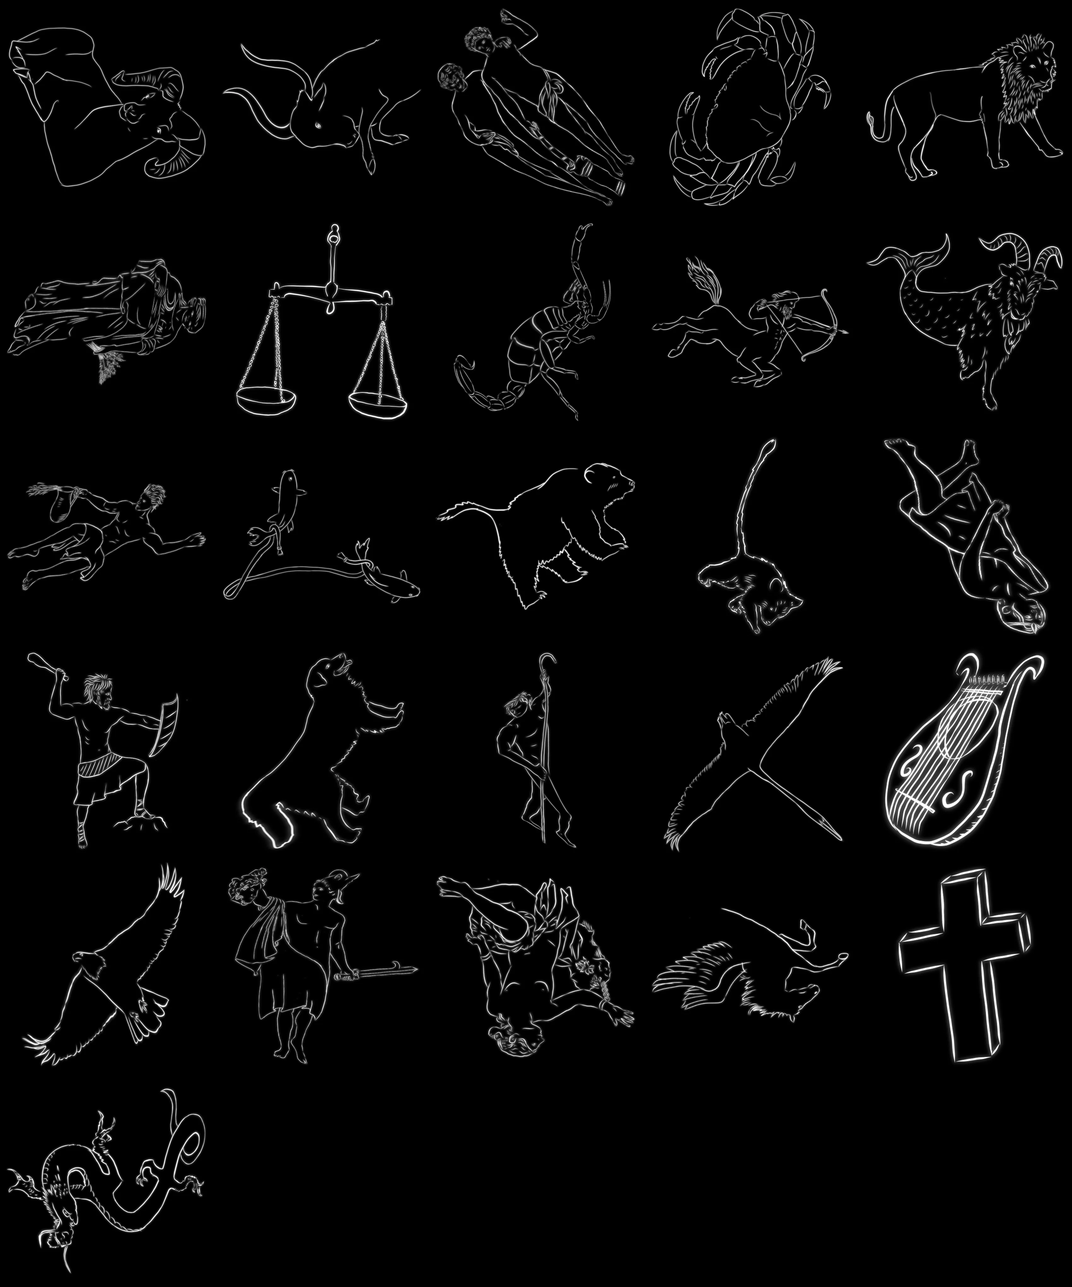
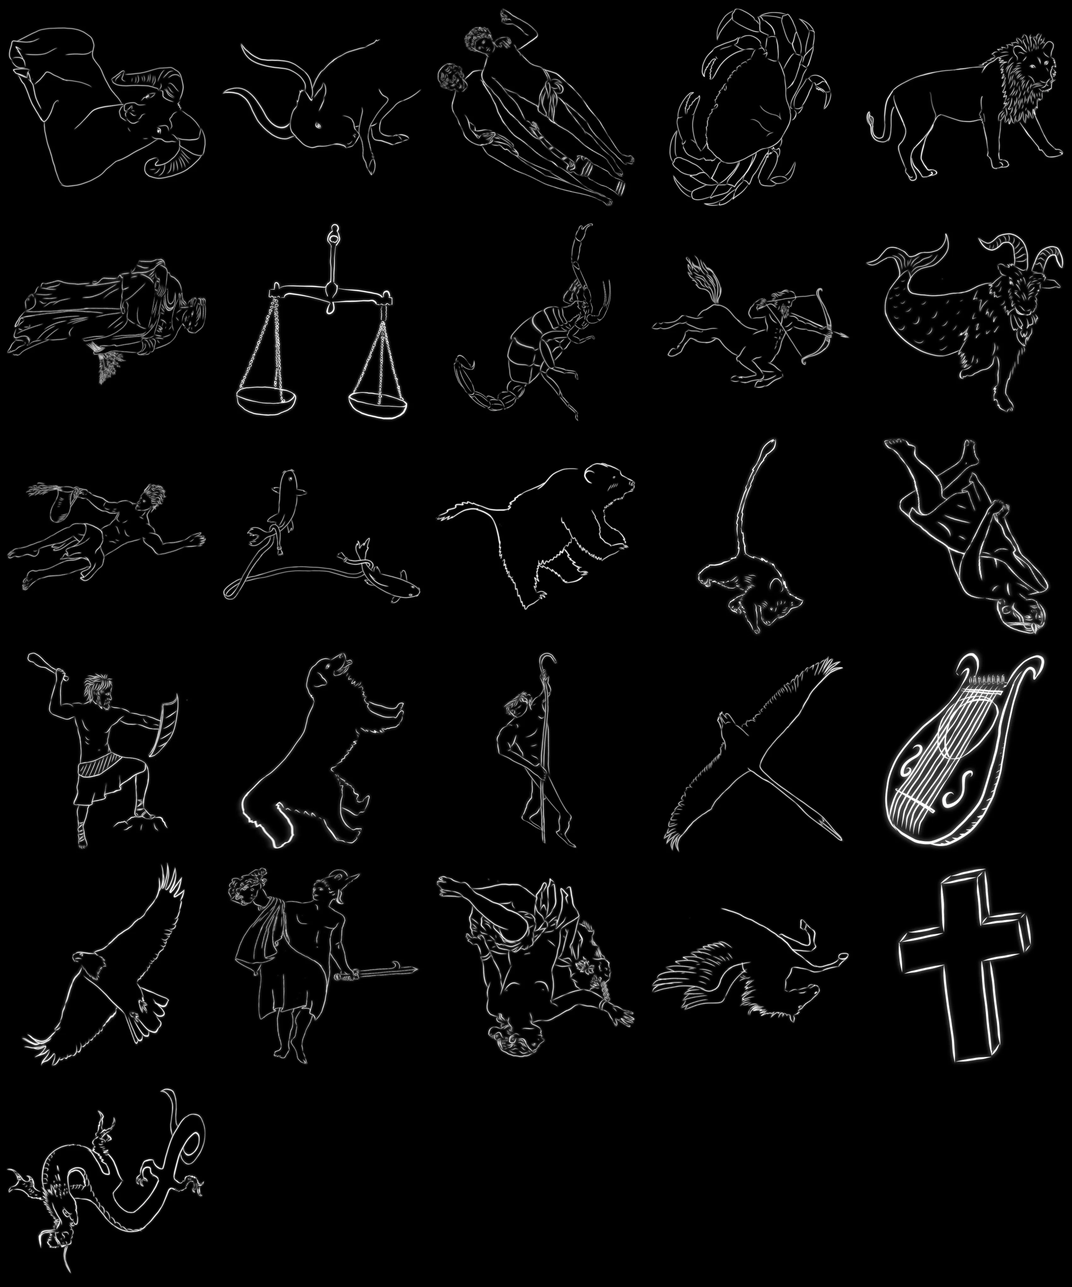
fix(figures): Sagittarius's bow on its stars, lines and names for the six floating zodiac drawings, Capricornus matched (#172)
* fix(figures): bend Sagittarius's bow through its bow stars

Kelly, from the live sky view: "It just doesn't look like the bow lines
up properly." It didn't. Sagittarius was one of the figures counted as
already sitting on its stars, and it was never matched. Placed as
OpenSpace placed it, the drawn bow bulged outside the Teapot's spout
edge:

- Kaus Borealis (lambda) sat beside the upper limb
- Kaus Media (delta) sat on the arrow, short of the grip
- Kaus Australis (epsilon) sat outside the lower limb
- Alnasl (gamma) sat below the arrowhead

Each was half a degree to a degree off. The nearest-ink number had said
0.2-0.5 degrees, because the nearest ink to those stars was the arrow
and the string, not the bow. For a star that belongs ON a line, measure
to that line.

Four landmarks now put the upper limb on lambda, the centre of the grip
on delta, the lower limb on epsilon and the arrowhead on gamma. The
names say where each belongs: the bow's north end, middle and south end,
and "the arrow's point". Nine pins hold the archer and the horse where
they already sat. The build matched it at x1.64 stretch, against x3.5
allowed, and re-checked placement for all 26 figures. Sagittarius is the
only figure whose data changed; every other tile differs only by WebP
re-encoding noise.

In the real sky lambda, delta and epsilon run in an almost straight
line, so the drawn bow is a little shallower than Hedberg drew it.
[…]

Changed region(s): [[0.8106, 0.1868, 0.9976, 0.3113], [0.6547, 0.2179, 0.7794, 0.3113], [0.6235, 0.249, 0.6547, 0.2801]]

diff --git a/site/src/data/figures.js b/site/src/data/figures.js
@@ -18,4 +18,4 @@
 // Artwork: James Hedberg (CUNY-CCNY), CC BY 4.0.
 export const FIGURE_TILE = 680;
 export const FIGURE_COLS = 5;
-export const FIGURES = [{"a":"Ari","n":"Aries","i":0,"c":[[0.609548,0.609323,0.64085],[0.840153,0.331852,0.5369],[0.855481,0.47457,0.189954],[0.624876,0.752041,0.293905]]},{"a":"Tau","n":"Taurus","i":1,"c":[[0.049771,0.861553,0.591597],[0.601795,0.739924,0.611093],[0.655278,0.895938,0.070073],[0.103254,1.017567,0.050576]]},{"a":"Gem","n":"Gemini","i":2,"c":[[-0.398344,0.698325,0.577864],[-0.085153,0.897797,0.630214],[-0.11377,1.034102,0.282047],[-0.426961,0.83463,0.229697]]},{"a":"Cnc","n":"Cancer","i":3,"c":[[-0.726669,0.530032,0.621825],[-0.278863,0.856476,0.546848],[-0.436893,0.952024,0.019009],[-0.884698,0.62558,0.093986]]},{"a":"Leo","n":"Leo","i":4,"c":[[-0.951124,0.021242,0.646291],[-0.685115,0.554686,0.534228],[-0.909218,0.548046,-0.029346],[-1.175228,0.014602,0.082717]]},{"a":"Vir","n":"Virgo","i":5,"c":[[-0.776967,-0.766113,0.317464],[-0.928265,-0.003613,0.355354],[-1.013842,0.017831,-0.417918],[-0.862543,-0.744669,-0.455808]]},{"a":"Lib","n":"Libra","i":6,"c":[[-0.491927,-0.852549,-0.145956],[-0.776682,-0.632606,-0.133503],[-0.743482,-0.569641,-0.486418],[-0.458728,-0.789584,-0.498871]]},{"a":"Sco","n":"Scorpius","i":7,"c":[[0.039705,-1.061065,-0.164161],[-0.683943,-0.948478,-0.138552],[-0.648906,-0.579492,-0.770707],[0.074742,-0.692079,-0.796316]]},{"a":"Sgr","n":"Sagittarius","i":8,"c":[[0.646114,-0.969303,-0.357703],[0.07328,-0.996382,-0.189059],[-0.086223,-0.700454,-0.683325],[0.486612,-0.673374,-0.851969]]},{"a":"Cap","n":"Capricornus","i":9,"c":[[0.887475,-0.556537,-0.062794],[0.470739,-0.783712,-0.140459],[0.533606,-0.736815,-0.614967],[0.950342,-0.509639,-0.537302]]},{"a":"Aqr","n":"Aquarius","i":10,"c":[[1.086561,-0.247188,0.162724],[0.780679,-0.814396,0.214766],[0.553723,-0.747205,-0.386876],[0.859604,-0.179997,-0.438918]]},{"a":"Psc","n":"Pisces","i":11,"c":[[0.72837,0.545468,0.630214],[0.962485,-0.220649,0.657842],[1.16155,-0.187793,-0.117918],[0.927435,0.578324,-0.145546]]},{"a":"UMa","n":"Ursa Major","i":12,"c":[[-0.299788,-0.418823,0.987062],[-0.099203,0.488742,1.000798],[-0.922429,0.67657,0.612061],[-1.123014,-0.230995,0.598325]]},{"a":"UMi","n":"Ursa Minor","i":13,"c":[[0.18996,-0.162051,0.985159],[-0.079381,0.131081,1.021494],[-0.374119,-0.132407,0.962373],[-0.104777,-0.425539,0.926039]]},{"a":"Cas","n":"Cassiopeia","i":14,"c":[[0.351391,0.327119,0.961681],[0.336163,-0.092028,0.987548],[0.678701,-0.119399,0.745673],[0.693928,0.299748,0.719806]]},{"a":"Ori","n":"Orion","i":15,"c":[[-0.177642,1.002418,0.322829],[0.422743,1.000812,0.316925],[0.416805,0.988039,-0.283326],[-0.183579,0.989645,-0.277421]]},{"a":"CMa","n":"Canis Major","i":16,"c":[[-0.40364,0.936873,-0.210212],[-0.053683,0.969254,-0.198559],[-0.035725,0.898995,-0.542645],[-0.385681,0.866615,-0.554299]]},{"a":"Boo","n":"Bootes","i":17,"c":[[-0.236765,-0.691711,0.812791],[-0.80028,-0.19446,0.894846],[-1.095016,-0.419775,0.236132],[-0.531502,-0.917026,0.154077]]},{"a":"Cyg","n":"Cygnus","i":18,"c":[[0.535151,-0.33943,0.842749],[0.131651,-0.637291,0.82865],[0.340305,-0.902366,0.45726],[0.743805,-0.604505,0.471359]]},{"a":"Lyr","n":"Lyra","i":19,"c":[[0.202649,-0.695015,0.626233],[0.087256,-0.784729,0.649128],[0.123309,-0.861964,0.528201],[0.238702,-0.772249,0.505306]]},{"a":"Aql","n":"Aquila","i":20,"c":[[0.580448,-0.682732,0.471988],[0.044926,-1.050821,0.398469],[0.181551,-1.122665,-0.237023],[0.717073,-0.754576,-0.163504]]},{"a":"Per","n":"Perseus","i":21,"c":[[0.171783,0.527961,0.880617],[0.587359,0.217582,0.777898],[0.791974,0.594075,0.468099],[0.376398,0.904453,0.570818]]},{"a":"And","n":"Andromeda","i":22,"c":[[0.618649,0.487464,0.694993],[0.586114,0.016529,0.994879],[0.915463,-0.242221,0.624274],[0.947998,0.228714,0.324388]]},{"a":"Peg","n":"Pegasus","i":23,"c":[[1.034709,0.038901,0.900295],[0.502414,-0.701805,0.706206],[0.717704,-0.619737,-0.197436],[1.25,0.12097,-0.003348]]},{"a":"Cru","n":"Crux","i":24,"c":[[-0.530757,-0.133905,-0.835475],[-0.542603,-0.016759,-0.819734],[-0.448291,0.002144,-0.889441],[-0.436445,-0.115001,-0.905181]]},{"a":"Dra","n":"Draco","i":25,"c":[[0.432983,-0.240204,1.047385],[-0.269055,0.238733,0.975664],[-0.719463,-0.453411,0.76247],[-0.017425,-0.932349,0.834191]]}];
+export const FIGURES = [{"a":"Ari","n":"Aries","i":0,"c":[[0.609548,0.609323,0.64085],[0.840153,0.331852,0.5369],[0.855481,0.47457,0.189954],[0.624876,0.752041,0.293905]]},{"a":"Tau","n":"Taurus","i":1,"c":[[0.049771,0.861553,0.591597],[0.601795,0.739924,0.611093],[0.655278,0.895938,0.070073],[0.103254,1.017567,0.050576]]},{"a":"Gem","n":"Gemini","i":2,"c":[[-0.398344,0.698325,0.577864],[-0.085153,0.897797,0.630214],[-0.11377,1.034102,0.282047],[-0.426961,0.83463,0.229697]]},{"a":"Cnc","n":"Cancer","i":3,"c":[[-0.726669,0.530032,0.621825],[-0.278863,0.856476,0.546848],[-0.436893,0.952024,0.019009],[-0.884698,0.62558,0.093986]]},{"a":"Leo","n":"Leo","i":4,"c":[[-0.951124,0.021242,0.646291],[-0.685115,0.554686,0.534228],[-0.909218,0.548046,-0.029346],[-1.175228,0.014602,0.082717]]},{"a":"Vir","n":"Virgo","i":5,"c":[[-0.776967,-0.766113,0.317464],[-0.928265,-0.003613,0.355354],[-1.013842,0.017831,-0.417918],[-0.862543,-0.744669,-0.455808]]},{"a":"Lib","n":"Libra","i":6,"c":[[-0.491927,-0.852549,-0.145956],[-0.776682,-0.632606,-0.133503],[-0.743482,-0.569641,-0.486418],[-0.458728,-0.789584,-0.498871]]},{"a":"Sco","n":"Scorpius","i":7,"c":[[0.039705,-1.061065,-0.164161],[-0.683943,-0.948478,-0.138552],[-0.648906,-0.579492,-0.770707],[0.074742,-0.692079,-0.796316]]},{"a":"Sgr","n":"Sagittarius","i":8,"c":[[0.6459,-0.968912,-0.358355],[0.069834,-0.996145,-0.188759],[-0.090569,-0.698546,-0.685814],[0.485498,-0.671314,-0.855409]]},{"a":"Cap","n":"Capricornus","i":9,"c":[[0.887178,-0.556704,-0.062628],[0.469055,-0.784636,-0.140552],[0.532131,-0.737583,-0.61664],[0.950254,-0.509651,-0.538717]]},{"a":"Aqr","n":"Aquarius","i":10,"c":[[1.086561,-0.247188,0.162724],[0.780679,-0.814396,0.214766],[0.553723,-0.747205,-0.386876],[0.859604,-0.179997,-0.438918]]},{"a":"Psc","n":"Pisces","i":11,"c":[[0.72837,0.545468,0.630214],[0.962485,-0.220649,0.657842],[1.16155,-0.187793,-0.117918],[0.927435,0.578324,-0.145546]]},{"a":"UMa","n":"Ursa Major","i":12,"c":[[-0.299788,-0.418823,0.987062],[-0.099203,0.488742,1.000798],[-0.922429,0.67657,0.612061],[-1.123014,-0.230995,0.598325]]},{"a":"UMi","n":"Ursa Minor","i":13,"c":[[0.18996,-0.162051,0.985159],[-0.079381,0.131081,1.021494],[-0.374119,-0.132407,0.962373],[-0.104777,-0.425539,0.926039]]},{"a":"Cas","n":"Cassiopeia","i":14,"c":[[0.351391,0.327119,0.961681],[0.336163,-0.092028,0.987548],[0.678701,-0.119399,0.745673],[0.693928,0.299748,0.719806]]},{"a":"Ori","n":"Orion","i":15,"c":[[-0.177642,1.002418,0.322829],[0.422743,1.000812,0.316925],[0.416805,0.988039,-0.283326],[-0.183579,0.989645,-0.277421]]},{"a":"CMa","n":"Canis Major","i":16,"c":[[-0.40364,0.936873,-0.210212],[-0.053683,0.969254,-0.198559],[-0.035725,0.898995,-0.542645],[-0.385681,0.866615,-0.554299]]},{"a":"Boo","n":"Bootes","i":17,"c":[[-0.236765,-0.691711,0.812791],[-0.80028,-0.19446,0.894846],[-1.095016,-0.419775,0.236132],[-0.531502,-0.917026,0.154077]]},{"a":"Cyg","n":"Cygnus","i":18,"c":[[0.535151,-0.33943,0.842749],[0.131651,-0.637291,0.82865],[0.340305,-0.902366,0.45726],[0.743805,-0.604505,0.471359]]},{"a":"Lyr","n":"Lyra","i":19,"c":[[0.202649,-0.695015,0.626233],[0.087256,-0.784729,0.649128],[0.123309,-0.861964,0.528201],[0.238702,-0.772249,0.505306]]},{"a":"Aql","n":"Aquila","i":20,"c":[[0.580448,-0.682732,0.471988],[0.044926,-1.050821,0.398469],[0.181551,-1.122665,-0.237023],[0.717073,-0.754576,-0.163504]]},{"a":"Per","n":"Perseus","i":21,"c":[[0.171783,0.527961,0.880617],[0.587359,0.217582,0.777898],[0.791974,0.594075,0.468099],[0.376398,0.904453,0.570818]]},{"a":"And","n":"Andromeda","i":22,"c":[[0.618649,0.487464,0.694993],[0.586114,0.016529,0.994879],[0.915463,-0.242221,0.624274],[0.947998,0.228714,0.324388]]},{"a":"Peg","n":"Pegasus","i":23,"c":[[1.034709,0.038901,0.900295],[0.502414,-0.701805,0.706206],[0.717704,-0.619737,-0.197436],[1.25,0.12097,-0.003348]]},{"a":"Cru","n":"Crux","i":24,"c":[[-0.530757,-0.133905,-0.835475],[-0.542603,-0.016759,-0.819734],[-0.448291,0.002144,-0.889441],[-0.436445,-0.115001,-0.905181]]},{"a":"Dra","n":"Draco","i":25,"c":[[0.432983,-0.240204,1.047385],[-0.269055,0.238733,0.975664],[-0.719463,-0.453411,0.76247],[-0.017425,-0.932349,0.834191]]}];

diff --git a/site/src/data/constellations.js b/site/src/data/constellations.js
@@ -2,4 +2,4 @@
 // Stick figures for the constellations people actually point at,
 // resolved from Bayer letters against the shipped Bright Star
 // Catalogue so a wrong letter is a build failure, not a wrong line.
-export const CONSTELLATIONS = {"UMa":{"name":"The Big Dipper","lines":[[5191,5054],[5054,4905],[4905,4660],[4660,4554],[4554,4295],[4295,4301],[4301,4660]]},"UMi":{"name":"The Little Dipper","lines":[[424,6789],[6789,6322],[6322,5903],[5903,5563],[5563,5735],[5735,6116],[6116,5903]]},"Cas":{"name":"Cassiopeia","lines":[[542,403],[403,264],[264,168],[168,21]]},"Cep":{"name":"Cepheus","lines":[[8162,8238],[8238,8974],[8974,8694],[8694,8162],[8694,8571],[8571,8465],[8465,8162]]},"Dra":{"name":"Draco","lines":[[4434,4787],[4787,5291],[5291,5744],[5744,5986],[5986,6132],[6132,6396],[6396,6927],[6927,6688],[6688,6705],[6705,6536],[6536,6554],[6554,6688]]},"Cyg":{"name":"Cygnus, the Northern Cross","lines":[[7924,7796],[7796,7417],[7528,7796],[7796,7949]]},"Lyr":{"name":"Lyra","lines":[[7001,7056],[7056,7131],[7131,7178],[7178,7106],[7106,7056]]},"Aql":{"name":"Aquila","lines":[[7557,7602],[7557,7525],[7525,7377],[7377,7235],[7377,7710]]},"Boo":{"name":"Bootes","lines":[[5340,5506],[5506,5681],[5681,5602],[5602,5435],[5435,5429],[5429,5340]]},"CrB":{"name":"Corona Borealis","lines":[[5778,5747],[5747,5793],[5793,5849],[5849,5889],[5889,5947]]},"Her":{"name":"Hercules","lines":[[6148,6212],[6212,6324],[6324,6410],[6410,6148],[6212,6220],[6220,6418],[6418,6324]]},"Leo":{"name":"Leo","lines":[[3982,3975],[3975,4057],[4057,4031],[4031,3905],[3905,3873],[4057,4357],[4357,4534],[4534,4359],[4359,3982]]},"Vir":{"name":"Virgo","lines":[[5056,4963],[4963,4825],[4825,4689],[4825,4910],[4910,4932]]},"Sco":{"name":"Scorpius","lines":[[5984,5953],[5953,5944],[5953,6084],[6084,6134],[6134,6165],[6165,6241],[6241,6247],[6247,6262],[6262,6380],[6380,6553],[6553,6615],[6615,6580],[6580,6527],[6527,6508]]},"Sgr":{"name":"Sagittarius, the Teapot","lines":[[7194,6879],[6879,6859],[6859,6913],[6913,7039],[7039,7194],[6859,6742],[6913,6859],[7039,7121],[7121,7234],[7234,7194]]},"Ori":{"name":"Orion","lines":[[2061,1948],[1948,1903],[1903,1852],[1852,1790],[1790,2061],[1852,1713],[1948,2004],[2004,1713]]},"Tau":{"name":"Taurus","lines":[[1457,1411],[1411,1346],[1346,1373],[1373,1409],[1409,1791],[1457,1910]]},"Gem":{"name":"Gemini","lines":[[2891,2697],[2697,2473],[2473,2343],[2990,2777],[2777,2650],[2650,2421],[2777,2473]]},"Aur":{"name":"Auriga","lines":[[1708,2088],[2088,2095],[2095,1577],[1577,1605],[1605,1708]]},"Per":{"name":"Perseus","lines":[[1017,915],[915,834],[1017,1122],[1122,1220],[1220,1203],[1017,936],[936,921]]},"And":{"name":"Andromeda","lines":[[15,165],[165,337],[337,603]]},"Peg":{"name":"Pegasus, the Great Square","lines":[[8781,8775],[8775,39],[39,8781],[8781,8634],[8634,8450],[8775,8650]]},"CMa":{"name":"Canis Major","lines":[[2491,2294],[2491,2693],[2693,2827],[2693,2618],[2618,2294]]},"Cru":{"name":"The Southern Cross","lines":[[4763,4730],[4853,4656]]},"Cen":{"name":"Centaurus, the Pointers","lines":[[5459,5267]]},"Car":{"name":"Carina","lines":[[2326,3685],[3685,3890],[3890,3699],[3699,3307]]}};
+export const CONSTELLATIONS = {"UMa":{"name":"The Big Dipper","lines":[[5191,5054],[5054,4905],[4905,4660],[4660,4554],[4554,4295],[4295,4301],[4301,4660]]},"UMi":{"name":"The Little Dipper","lines":[[424,6789],[6789,6322],[6322,5903],[5903,5563],[5563,5735],[5735,6116],[6116,5903]]},"Cas":{"name":"Cassiopeia","lines":[[542,403],[403,264],[264,168],[168,21]]},"Cep":{"name":"Cepheus","lines":[[8162,8238],[8238,8974],[8974,8694],[8694,8162],[8694,8571],[8571,8465],[8465,8162]]},"Dra":{"name":"Draco","lines":[[4434,4787],[4787,5291],[5291,5744],[5744,5986],[5986,6132],[6132,6396],[6396,6927],[6927,6688],[6688,6705],[6705,6536],[6536,6555],[6555,6688]]},"Cyg":{"name":"Cygnus, the Northern Cross","lines":[[7924,7796],[7796,7417],[7528,7796],[7796,7949]]},"Lyr":{"name":"Lyra","lines":[[7001,7056],[7056,7139],[7139,7178],[7178,7106],[7106,7056]]},"Aql":{"name":"Aquila","lines":[[7557,7602],[7557,7525],[7525,7377],[7377,7235],[7377,7710]]},"Boo":{"name":"Bootes","lines":[[5340,5506],[5506,5681],[5681,5602],[5602,5435],[5435,5429],[5429,5340]]},"CrB":{"name":"Corona Borealis","lines":[[5778,5747],[5747,5793],[5793,5849],[5849,5889],[5889,5947]]},"Her":{"name":"Hercules","lines":[[6148,6212],[6212,6324],[6324,6410],[6410,6148],[6212,6220],[6220,6418],[6418,6324]]},"Leo":{"name":"Leo","lines":[[3982,3975],[3975,4057],[4057,4031],[4031,3905],[3905,3873],[4057,4357],[4357,4534],[4534,4359],[4359,3982]]},"Vir":{"name":"Virgo","lines":[[5056,4963],[4963,4825],[4825,4689],[4825,4910],[4910,4932]]},"Lib":{"name":"Libra","lines":[[5603,5531],[5531,5685],[5685,5787],[5787,5794],[5794,5812],[5531,5787]]},"Sco":{"name":"Scorpius","lines":[[5984,5953],[5953,5944],[5953,6084],[6084,6134],[6134,6165],[6165,6241],[6241,6247],[6247,6271],[6271,6380],[6380,6553],[6553,6615],[6615,6580],[6580,6527],[6527,6508]]},"Sgr":{"name":"Sagittarius, the Teapot","lines":[[7194,6879],[6879,6859],[6859,6913],[6913,7039],[7039,7194],[6859,6746],[6913,6859],[7039,7121],[7121,7234],[7234,7194]]},"Cap":{"name":"Capricornus","lines":[[7754,7776],[7776,7822],[7822,7936],[7936,7980],[7980,8204],[8204,8322],[8322,8278],[8278,8167],[8167,8075],[8075,7754]]},"Aqr":{"name":"Aquarius","lines":[[7950,7990],[7990,8232],[8232,8414],[8414,8518],[8518,8559],[8559,8597],[8597,8698],[8698,8858],[8858,8812],[8232,8418],[8414,8499],[8559,8539],[8892,8858],[8858,8982]]},"Ori":{"name":"Orion","lines":[[2061,1948],[1948,1903],[1903,1852],[1852,1790],[1790,2061],[1852,1713],[1948,2004],[2004,1713]]},"Tau":{"name":"Taurus","lines":[[1457,1412],[1412,1346],[1346,1373],[1373,1409],[1409,1791],[1457,1910]]},"Gem":{"name":"Gemini","lines":[[2891,2697],[2697,2473],[2473,2343],[2990,2777],[2777,2650],[2650,2421],[2777,2473]]},"Cnc":{"name":"Cancer","lines":[[3572,3461],[3461,3449],[3449,3475],[3461,3249]]},"Aur":{"name":"Auriga","lines":[[1708,2088],[2088,2095],[2095,1577],[1577,1605],[1605,1708]]},"Per":{"name":"Perseus","lines":[[1017,915],[915,834],[1017,1122],[1122,1220],[1220,1203],[1017,936],[936,921]]},"And":{"name":"Andromeda","lines":[[15,165],[165,337],[337,603]]},"Peg":{"name":"Pegasus, the Great Square","lines":[[8781,8775],[8775,39],[39,8781],[8781,8634],[8634,8450],[8775,8650]]},"Psc":{"name":"Pisces","lines":[[360,352],[352,383],[383,360],[360,351],[351,437],[437,510],[510,596],[596,549],[549,489],[489,434],[434,361],[361,294],[294,224],[224,9072],[9072,8969],[8969,8916],[8916,8878],[8878,8852],[8852,8911],[8911,8984],[8984,9004],[9004,8969],[8852,8773]]},"Ari":{"name":"Aries","lines":[[838,617],[617,553],[553,546]]},"CMa":{"name":"Canis Major","lines":[[2491,2294],[2491,2693],[2693,2827],[2693,2618],[2618,2294]]},"Cru":{"name":"The Southern Cross","lines":[[4763,4730],[4853,4656]]},"Cen":{"name":"Centaurus, the Pointers","lines":[[5459,5267]]},"Car":{"name":"Carina","lines":[[2326,3685],[3685,3890],[3890,3699],[3699,3307]]}};

diff --git a/site/sw.js b/site/sw.js
@@ -17,7 +17,7 @@
 //
 // This is a CACHE KEY, not the release stamp. build-version.json stays where
 // it is; the build advances once per release on the default branch.
-const VERSION = '0.0.1.0.37';
+const VERSION = '0.0.1.0.38';
 const CACHE = `evo-polaris-${VERSION}`;
 
 const ASSETS = [

diff --git a/scripts/build-constellations.py b/scripts/build-constellations.py
@@ -34,8 +34,24 @@ OUT = ROOT / "site" / "src" / "data" / "constellations.js"
 # figure fails to resolve.
 NAME = re.compile(
     r"^\s*\d*\s*([A-Z][a-z]{1,2})\s*(\d?)\s*([A-Z][A-Za-z]{2})\s*$")
+# "41    Ari", "13Alp Ari" -> (Flamsteed number, constellation). Some figures
+# run through stars that have no Bayer letter at all -- 41 Arietis, 88
+# Aquarii -- and those are named by their Flamsteed number instead.
+FLAMSTEED = re.compile(r"^\s*(\d+)\D.*?([A-Z][A-Za-z]{2})\s*$")
+# A star in a figure: a Bayer letter ("Gam", the BRIGHTEST component of a
+# double -- the one you can see), a letter with its component ("Psi2", that
+# one exactly), or a Flamsteed number ("41").
+TOKEN = re.compile(r"^(?:([A-Z][a-z]{1,2})(\d?)|(\d+))$")
 
-# Each entry: display name, and the segments as Bayer letters.
+# Each entry: display name, and the segments as Bayer letters (see TOKEN).
+#
+# The six zodiac figures that have artwork -- Aries, Cancer, Libra,
+# Capricornus, Aquarius, Pisces -- were added 2026-10-01, when their drawings
+# were found floating with no lines and no name ("This artwork doesn't seem to
+# have any corresponding constellations"). Their lines follow the figures in
+# d3-celestial's constellations.lines.json (BSD 3-clause): every vertex was
+# matched to the nearest star of this catalogue, all within 0.1 degrees, and
+# only which stars to join was taken from it.
 FIGURES = {
     "UMa": ("The Big Dipper", [
         ("Eta", "Zet"), ("Zet", "Eps"), ("Eps", "Del"),
@@ -76,6 +92,9 @@ FIGURES = {
     "Vir": ("Virgo", [
         ("Alp", "The"), ("The", "Gam"), ("Gam", "Eta"),
         ("Gam", "Del"), ("Del", "Eps")]),
+    "Lib": ("Libra", [
+        ("Sig", "Alp"), ("Alp", "Bet"), ("Bet", "Gam"), ("Gam", "Ups"),
+        ("Ups", "Tau"), ("Alp", "Gam")]),
     "Sco": ("Scorpius", [
         ("Bet", "Del"), ("Del", "Pi"), ("Del", "Sig"), ("Sig", "Alp"),
         ("Alp", "Tau"), ("Tau", "Eps"), ("Eps", "Mu"), ("Mu", "Zet"),
@@ -85,6 +104,15 @@ FIGURES = {
         ("Zet", "Eps"), ("Eps", "Del"), ("Del", "Lam"), ("Lam", "Phi"),
         ("Phi", "Zet"), ("Del", "Gam"), ("Lam", "Del"), ("Phi", "Sig"),
         ("Sig", "Tau"), ("Tau", "Zet")]),
+    "Cap": ("Capricornus", [
+        ("Alp", "Bet"), ("Bet", "Rho"), ("Rho", "Psi"), ("Psi", "Ome"),
+        ("Ome", "Zet"), ("Zet", "Del"), ("Del", "Gam"), ("Gam", "Iot"),
+        ("Iot", "The"), ("The", "Alp")]),
+    "Aqr": ("Aquarius", [
+        ("Eps", "Mu"), ("Mu", "Bet"), ("Bet", "Alp"), ("Alp", "Gam"),
+        ("Gam", "Zet"), ("Zet", "Eta"), ("Eta", "Lam"), ("Lam", "Psi2"),
+        ("Psi2", "88"), ("Bet", "Iot"), ("Alp", "The"), ("Zet", "Pi"),
+        ("98", "Psi2"), ("Psi2", "104")]),
     "Ori": ("Orion", [
         ("Alp", "Zet"), ("Zet", "Eps"), ("Eps", "Del"), ("Del", "Gam"),
         ("Gam", "Alp"), ("Del", "Bet"), ("Zet", "Kap"), ("Kap", "Bet")]),
@@ -94,6 +122,8 @@ FIGURES = {
     "Gem": ("Gemini", [
         ("Alp", "Tau"), ("Tau", "Eps"), ("Eps", "Nu"),
         ("Bet", "Del"), ("Del", "Zet"), ("Zet", "Gam"), ("Del", "Eps")]),
+    "Cnc": ("Cancer", [
+        ("Alp", "Del"), ("Del", "Gam"), ("Gam", "Iot"), ("Del", "Bet")]),
     "Aur": ("Auriga", [
         ("Alp", "Bet"), ("Bet", "The"), ("The", "Iot"),
         ("Iot", "Eps"), ("Eps", "Alp")]),
@@ -105,6 +135,14 @@ FIGURES = {
     "Peg": ("Pegasus, the Great Square", [
         ("Alp", "Bet"), ("Bet", "Gam"), ("Gam", "Alp"),
         ("Alp", "Zet"), ("Zet", "The"), ("Bet", "Eta")]),
+    "Psc": ("Pisces", [
+        ("Phi", "Tau"), ("Tau", "Ups"), ("Ups", "Phi"), ("Phi", "Chi"),
+        ("Chi", "Eta"), ("Eta", "Omi"), ("Omi", "Alp"), ("Alp", "Xi"),
+        ("Xi", "Nu"), ("Nu", "Mu"), ("Mu", "Zet"), ("Zet", "Eps"),
+        ("Eps", "Del"), ("Del", "Ome"), ("Ome", "Iot"), ("Iot", "The"),
+        ("The", "7"), ("7", "Gam"), ("Gam", "Kap"), ("Kap", "Lam"),
+        ("Lam", "19"), ("19", "Iot"), ("Gam", "Bet")]),
+    "Ari": ("Aries", [("41", "Alp"), ("Alp", "Bet"), ("Bet", "Gam")]),
     "CMa": ("Canis Major", [
         ("Alp", "Bet"), ("Alp", "Del"), ("Del", "Eta"),
         ("Del", "Eps"), ("Eps", "Bet")]),
@@ -116,28 +154,50 @@ FIGURES = {
 
 
 def load_index():
-    """{(greek, super, con): (hr, mag)} for every named star in the catalogue."""
-    index = {}
+    """Every named star in the catalogue, two ways.
+
+    bayer:     {(greek, super, con): (hr, mag)}
+    flamsteed: {(number, con): (hr, mag)}
+    """
+    bayer, flamsteed = {}, {}
     for ra, dec, mag, bv, hr, name in json.loads(STARS.read_text()):
         if not name:
             continue
         m = NAME.match(name)
-        if not m:
-            continue
-        key = (m.group(1), m.group(2), m.group(3))
-        # Keep the brightest when a letter has superscripted components: the
-        # figure means the one you can see.
-        if key not in index or mag < index[key][1]:
-            index[key] = (hr, mag)
-    return index
+        if m:
+            key = (m.group(1), m.group(2), m.group(3))
+            if key not in bayer or mag < bayer[key][1]:
+                bayer[key] = (hr, mag)
+        f = FLAMSTEED.match(name)
+        if f:
+            key = (f.group(1), f.group(2))
+            if key not in flamsteed or mag < flamsteed[key][1]:
+                flamsteed[key] = (hr, mag)
+    return bayer, flamsteed
 
 
-def resolve(index, greek, con):
-    for sup in ("", "1", "2"):
-        hit = index.get((greek, sup, con))
-        if hit:
-            return hit[0]
-    return None
+def resolve(index, token, con):
+    """The HR number a figure's token means, or None.
+
+    A BARE LETTER IS THE BRIGHTEST COMPONENT, because the figure means the one
+    you can see. This used to try component 1, then 2, and take the first that
+    existed -- so the Teapot's spout ran to gamma-1 Sagittarii, a faint
+    variable, instead of Alnasl, gamma-2, "the arrow's point" (#173). The
+    comment above the old code said "the brightest"; the code did not.
+    """
+    bayer, flamsteed = index
+    m = TOKEN.match(token)
+    if not m:
+        return None
+    greek, sup, number = m.groups()
+    if number:
+        hit = flamsteed.get((number, con))
+        return hit[0] if hit else None
+    if sup:
+        hit = bayer.get((greek, sup, con))
+        return hit[0] if hit else None
+    candidates = [v for (g, s, c), v in bayer.items() if g == greek and c == con]
+    return min(candidates, key=lambda v: v[1])[0] if candidates else None
 
 
 def main() -> int:

diff --git a/scripts/build-constellation-art.py b/scripts/build-constellation-art.py
@@ -150,11 +150,22 @@ HAND-MATCHED, WHERE THE DRAWING'S PROPORTIONS ARE NOT THE SKY'S
     that grew to reach its stars keeps its resolution.
 
     Every match prints how far it stretched any part of the drawing, and
-    MAX_STRETCH refuses one that asks too much. Seventeen of the twenty-six
-    are matched; the other nine already sit on their stars -- checked
+    MAX_STRETCH refuses one that asks too much. Nineteen of the twenty-six
+    are matched; the other seven already sit on their stars -- checked
     one by one against the stars the app draws lines between, by anatomy
     as well as by number, because a star correctly inside an outlined body
-    counts as far from ink and would fool the number alone.
+    counts as far from ink and would fool the number alone. Sagittarius was
+    counted among those that sat right until 2026-09-30, and did not: its
+    bow bulged outside Kaus Borealis, Kaus Media and Kaus Australis by half
+    a degree to a degree. The nearest-ink number had said 0.2-0.5 degrees,
+    because the nearest ink to those stars was the arrow and the string,
+    not the bow. For a star that belongs ON a line, measure to that line.
+    Capricornus followed the same day, once it had stick lines to be checked
+    against: Deneb Algedi sat two degrees off the tail and the leg stars off
+    the leg. The six zodiac drawings had never been checked at all, because
+    until 2026-10-01 they had no lines. Pisces is the one left as drawn: its
+    western fish is smaller than the Circlet it swims in, and stretching the
+    head out to Gamma would make a different fish.
 
     The landmarks are read off the tile as this script crops it. Change
     MARGIN or the crop rule, and they have to be read again.
